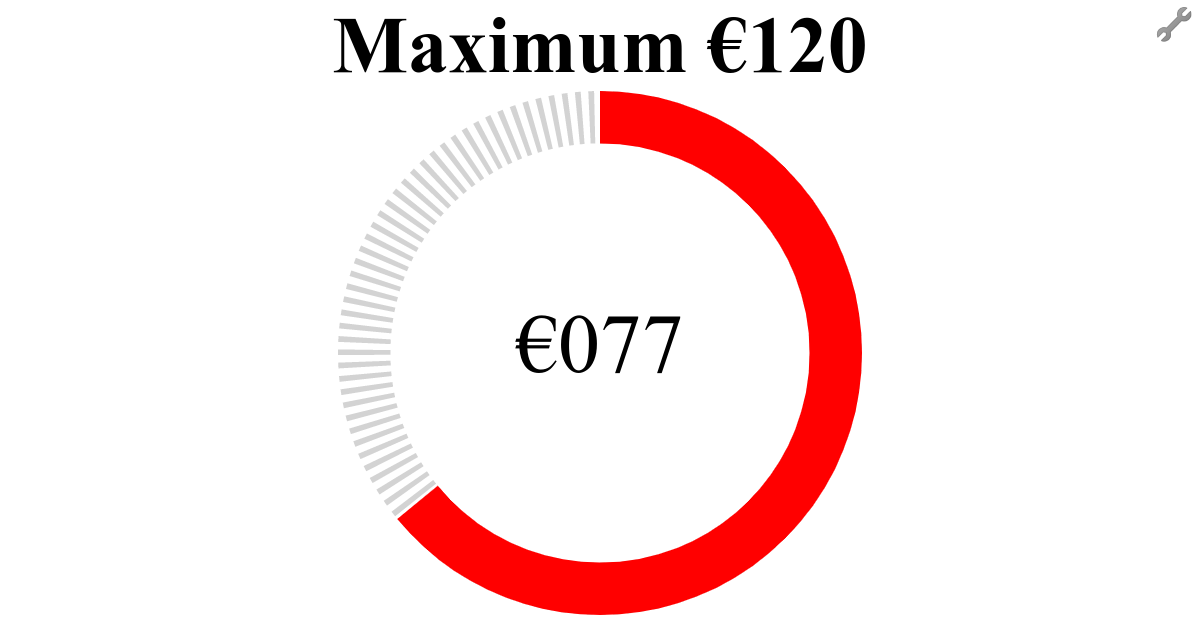
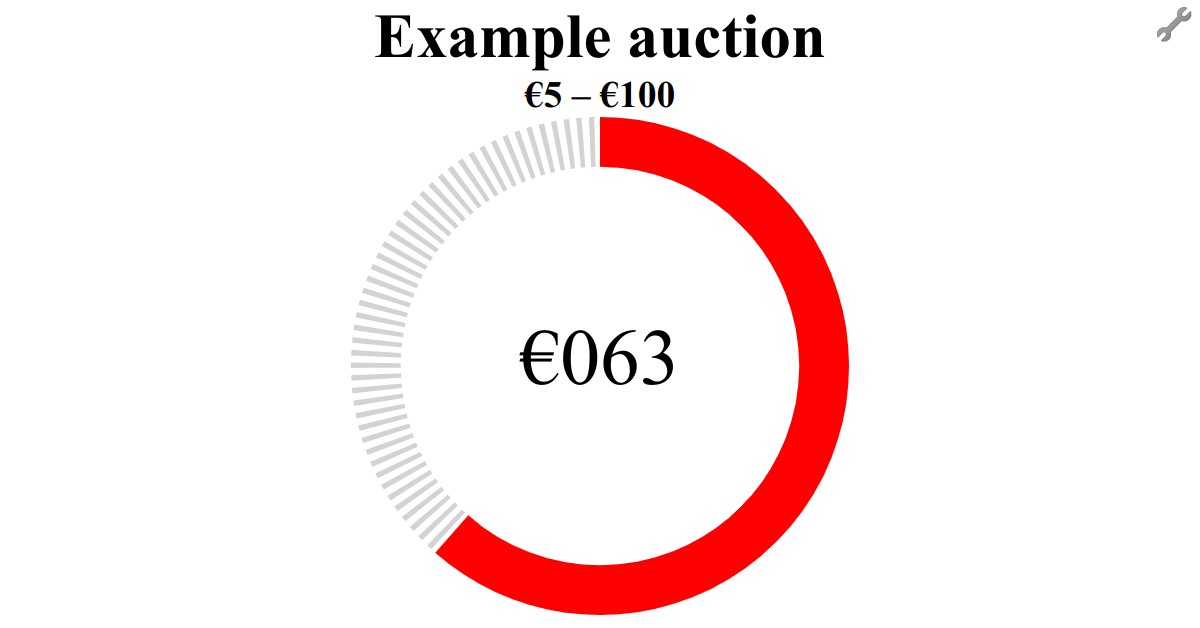
More generic auction functionality:
- Configurable start- and end values, and title
- Replace route params with query params
- Fix clock exceeding display width on narrow screen
- Clock no longer starts immediately after settings update

diff --git a/src/app/auction/auction.component.ts b/src/app/auction/auction.component.ts
@@ -13,21 +13,44 @@ import {
   switchMap,
   takeUntil,
   takeWhile,
+  skip,
 } from 'rxjs';
 import { Settings } from '../settings';
 import { ControlAction } from '../controlAction';
 
 const TIME_CHUNK = 100;
 
-const defaultSettings: Settings = { maximum: 20.0, time: 10.0 };
+const defaultSettings: Settings = {
+  start: 0.0,
+  end: 20.0,
+  time: 10.0,
+  title: 'Dutch auction',
+};
 
 const forAction = (action: ControlAction) =>
   filter<ControlAction>((incoming) => incoming === action);
 
+const toViewModel = (settings: Settings) => {
+  const range = settings.end - settings.start;
+  const maximumCount = (settings.time * 1000) / TIME_CHUNK;
+  return (count: number) => {
+    const factor = count / maximumCount;
+    return {
+      title: settings.title,
+      factor,
+      value: range * factor + settings.start,
+      start: settings.start,
+      end: settings.end,
+    } as ViewModel;
+  };
+};
+
 interface ViewModel {
+  start: number;
+  end: number;
   factor: number;
   value: number;
-  maximum: number;
+  title: string;
 }
 
 @Component({
@@ -44,12 +67,15 @@ export class AuctionComponent {
 
     const initialReset$ = of(null);
 
-    const routeSettings$ = this.route.paramMap.pipe(
+    const routeSettings$ = this.route.queryParams.pipe(
       map(
-        (paramMap) =>
+        (params) =>
           ({
-            maximum: parseFloat(paramMap.get('maximum') as string) || defaultSettings.maximum,
-            time: parseFloat(paramMap.get('time') as string) || defaultSettings.time,
+            title: params['title'] ?? defaultSettings.title,
+            start:
+              parseFloat(params['start'] as string) || defaultSettings.start,
+            end: parseFloat(params['end'] as string) || defaultSettings.end,
+            time: parseFloat(params['time'] as string) || defaultSettings.time,
           } as Settings)
       )
     );
@@ -62,7 +88,7 @@ export class AuctionComponent {
       of(defaultSettings),
       broadCastSettings$,
       routeSettings$
-    ).pipe(shareReplay(1));
+    );
 
     const controlActions$ = fromEvent<
       MessageEvent<ControlAction>,
@@ -76,7 +102,7 @@ export class AuctionComponent {
       merge(controlActions$.pipe(forAction('startStop')), spacePressed$).pipe(
         // This is essential to make the partition of the observable work.
         // If it's not shareReplayed, the partition re-subscribes, and the count is restarted.
-        shareReplay(1)
+        shareReplay({ bufferSize: 1, refCount: true })
       ),
       (_, i) => i % 2 === 0
     );
@@ -84,9 +110,9 @@ export class AuctionComponent {
       filter((event) => event.key === 'Escape')
     );
     const reset$ = merge(
+      initialReset$,
       controlActions$.pipe(forAction('reset')),
       escapePressed$,
-      initialReset$
     ).pipe(shareReplay(1));
 
     this.model$ = settings$.pipe(
@@ -97,28 +123,12 @@ export class AuctionComponent {
               const maximumCount = (settings.time * 1000) / TIME_CHUNK;
               return interval(TIME_CHUNK).pipe(
                 takeWhile((count) => count <= maximumCount),
-                map((count) => {
-                  const factor = count / maximumCount;
-                  return {
-                    factor,
-                    value: settings.maximum * factor,
-                    maximum: settings.maximum,
-                  } as ViewModel;
-                }),
-                takeUntil(stop$)
+                map(toViewModel(settings)),
+                takeUntil(merge(stop$, reset$.pipe(skip(1))))
               );
             })
           ),
-          reset$.pipe(
-            map(
-              () =>
-                ({
-                  factor: 0,
-                  value: settings.maximum * 0,
-                  maximum: settings.maximum,
-                } as ViewModel)
-            )
-          )
+          reset$.pipe(map(() => toViewModel(settings)(0)))
         )
       )
     );

diff --git a/src/index.html b/src/index.html
@@ -3,20 +3,20 @@
 <head>
   <meta charset="utf-8">
   <!-- Primary Meta Tags -->
-  <title>Ascending Auction — Quickly sell jobs</title>
-  <meta name="title" content="Ascending Auction — Quickly sell jobs" />
+  <title>Dutch auction clock</title>
+  <meta name="title" content="Dutch auction clock" />
   <meta
     name="description"
-    content="Sell jobs quickly to the one willing to work for the lowest price. Inspired by Dutch Auctions"
+    content="Run your own auction, the Dutch way"
   />
 
   <!-- Open Graph / Facebook -->
   <meta property="og:type" content="website" />
   <meta property="og:url" content="https://metatags.io/" />
-  <meta property="og:title" content="Ascending Auction — Quickly sell jobs" />
+  <meta property="og:title" content="Dutch auction clock" />
   <meta
     property="og:description"
-    content="Sell jobs quickly to the one willing to work for the lowest price. Inspired by Dutch Auctions"
+    content="Run your own auction, the Dutch way"
   />
   <meta
     property="og:image"
@@ -28,11 +28,11 @@
   <meta property="twitter:url" content="https://metatags.io/" />
   <meta
     property="twitter:title"
-    content="Ascending Auction — Quickly sell jobs"
+    content="Dutch auction clock"
   />
   <meta
     property="twitter:description"
-    content="Sell jobs quickly to the one willing to work for the lowest price. Inspired by Dutch Auctions"
+    content="Run your own auction, the Dutch way"
   />
   <meta
     property="twitter:image"

diff --git a/src/app/control/control.component.scss b/src/app/control/control.component.scss
@@ -10,30 +10,52 @@
   form {
     width: 100vmin;
     display: grid;
-    grid-template-areas:
-      "label1 input1"
-      "label2 input2"
-      "button button";
+    align-items: center;
+    grid-template:
+      "labelTitle inputTitle" 8vmin
+      "labelStart inputStart" 8vmin
+      "labelEnd inputEnd" 8vmin
+      "labelTime inputTime" 8vmin
+      "button button" 8vmin;
 
     > * {
-      height: 5vmin;
+      height: 6vmin;
       font-size: 3vmin;
     }
 
-    #labelMax {
-      grid-area: label1;
+    input {
+      padding-left: 1vmin;
     }
 
-    #maximum {
-      grid-area: input1;
+    #labelTitle {
+      grid-area: labelTitle;
+    }
+
+    #title {
+      grid-area: inputTitle;
+    }
+
+    #labelStart {
+      grid-area: labelStart;
+    }
+    #start {
+      grid-area: inputStart;
+    }
+
+    #labelTitle {
+      grid-area: labelTitle;
+    }
+
+    #title {
+      grid-area: inputTitle;
     }
 
     #labelTime {
-      grid-area: label2;
+      grid-area: labelTime;
     }
 
     #time {
-      grid-area: input2;
+      grid-area: inputTime;
     }
 
     button {

diff --git a/src/app/control/control.component.html b/src/app/control/control.component.html
@@ -1,16 +1,38 @@
 <form #f="ngForm" (ngSubmit)="updateSettings(f)">
-  <label id="labelMax" for="maximum">Maximum</label>
+  <label id="labelTitle" for="title">Title</label>
+  <input name="title" id="title" required ngModel="Dutch auction" />
+  <label id="labelStart" for="start">Start</label>
   <input
-    id="maximum"
-    name="maximum"
+    type="number"
+    id="start"
+    name="start"
     min="0"
     max="999"
     step="1"
     required
-    [ngModel]="10"
+    [ngModel]="0"
+  />
+  <label id="labelEnd" for="end">End</label>
+  <input
+    type="number"
+    id="end"
+    name="end"
+    min="0"
+    max="999"
+    step="1"
+    required
+    [ngModel]="20"
   />
   <label id="labelTime" for="time">Time</label>
-  <input name="time" id="time" min="5" step="1" required [ngModel]="5" />
+  <input
+    type="number"
+    name="time"
+    id="time"
+    min="5"
+    step="1"
+    required
+    [ngModel]="10"
+  />
   <button>Apply</button>
 </form>
 <div>

diff --git a/src/app/auction/auction.component.html b/src/app/auction/auction.component.html
@@ -1,7 +1,11 @@
 <ng-container *ngIf="model$ | async as model">
-  <h1 class="title">
-    Maximum {{ model.maximum | currency: "EUR":"symbol":"0.0-0" }}
+  <h1>
+    {{ model.title }}
   </h1>
+  <h2>
+    {{ model.start | currency: "EUR":"symbol":"0.0-0" }} –
+    {{ model.end | currency: "EUR":"symbol":"0.0-0" }}
+  </h2>
   <svg viewBox="0 0 100 100">
     <circle
       r="45"
@@ -24,7 +28,7 @@
       attr.stroke-dasharray="{{ 283 * model.factor }}, 283"
     />
     <text x="50% " y="50%" dominant-baseline="middle" text-anchor="middle">
-      {{ model.value | currency: "EUR":"symbol":"3.0-0" }}
+      {{ model.factor === 1.0 ? ' ' : model.value | currency: "EUR":"symbol":"3.0-0" }}
     </text>
   </svg>
   <a class="nav-top-right" href="/control" target="_blank">🔧</a>

diff --git a/src/app/auction/auction.component.scss b/src/app/auction/auction.component.scss
@@ -5,13 +5,17 @@
   flex-direction: column;
   align-items: center;
 
-  .title {
-    flex: 1 1 auto;
-    font-size: 5em;
+  h1 {
+    font-size: 10vmin;
+  }
+
+  h2 {
+    font-size: 6vmin;
   }
 
   svg {
-    flex: 1 1 auto;
+    max-width: 100%;
+    flex: 1 1 0;
     margin: 0 auto 2vmin auto;
   }
 }

diff --git a/src/app/app-routing.module.ts b/src/app/app-routing.module.ts
@@ -9,15 +9,7 @@ const routes: Routes = [
     component: ControlComponent,
   },
   {
-    path: ':maximum/:time',
-    component: AuctionComponent,
-  },
-  {
-    path: ':maximum',
-    component: AuctionComponent,
-  },
-  {
-    path: '',
+    path: '**',
     component: AuctionComponent,
   },
 ];

diff --git a/src/app/settings.ts b/src/app/settings.ts
@@ -1,4 +1,6 @@
 export interface Settings {
-  maximum: number;
+  start: number;
+  end: number;
   time: number;
+  title: string;
 }

diff --git a/README.md b/README.md
@@ -1,17 +1,17 @@
 # Ascending Auction Clock
 
-This project creates an auction clock in the style of a [Dutch Auction](https://en.wikipedia.org/wiki/Dutch_auction), but it's a descending auction instead. Created to sell simple jobs to the one who will do the work at the lowest price.
-
-If you need a standard descending auction clock, it's probably fairly easy to do by changing the mapping function in [`auction.component.ts:100`](src/app//auction/auction.component.ts#L100)
-
+This project creates an auction clock in the style of a [Dutch Auction](https://en.wikipedia.org/wiki/Dutch_auction).
 ## Usage
 
 - Run the app (e.g. `ng serve`) or deploy it.
-- Navigate to it's URL
-- You can navigate to the root URI and click the wrench icon in the top-right corner to open a separate control tab that's pretty self-explanator.
-- Alternatively you can navigate to `rootUrl/maximumValue` or `rootUrl/maximum/time` where `maximum` is the maximum bid, and `time` is the count-down time of the clock. Such a navigation will immediately configure the clock.
-- At either control or auction page, you can start/stop the clock using the space bar and reset the clock to zero by pressing escape.
+- Navigate to the app
+- You can navigate to the root URI and click the wrench icon in the top-right corner to open a separate control tab that's pretty self-explanatory. It controls the other tab that displays the auction.
+- Alternatively you can load a preconfigured clock using query parameters. The query parameters match the names on the control screen: `start`, `end`, `title`, and `time`. E.g. http://localhost:4200?title=Example%20auction&start=5&end=100&time=7
+- At either control or auction page, you can start/stop the clock using the space bar and reset the clock by pressing escape.
 
-## Development server
+## Development
 
-Run `ng serve` for a dev server. Navigate to `http://localhost:4200/`. The application will automatically reload if you change any of the source files.
+1. Clone this repo
+2. Open the repo in your IDE (e.g. Visual Studio Code)
+3. Run `npm install` in the repo folder
+4. Run `ng serve` for a dev server. Navigate to `http://localhost:4200/`. The application will automatically reload if you change any of the source files.
